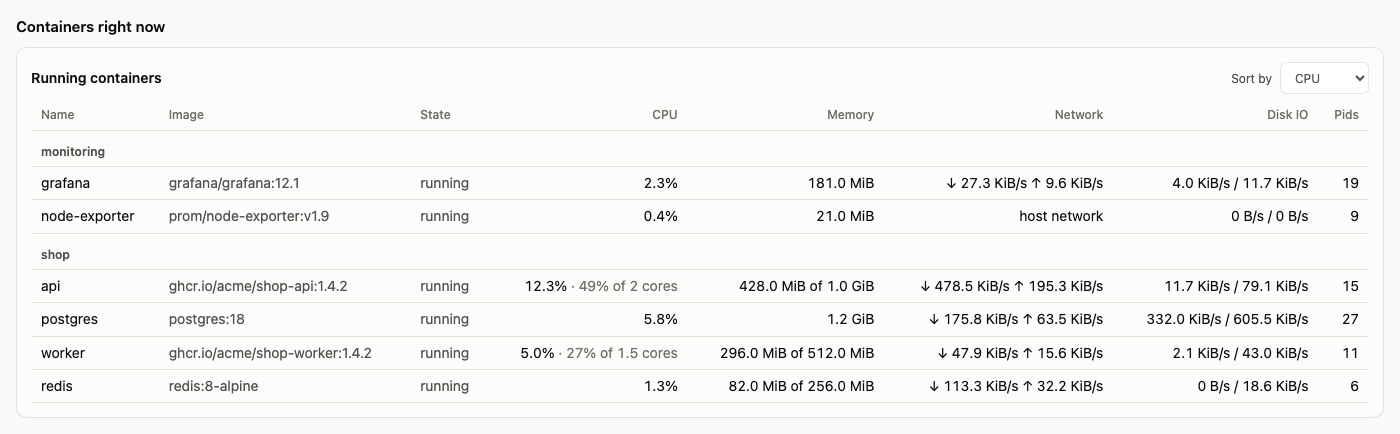
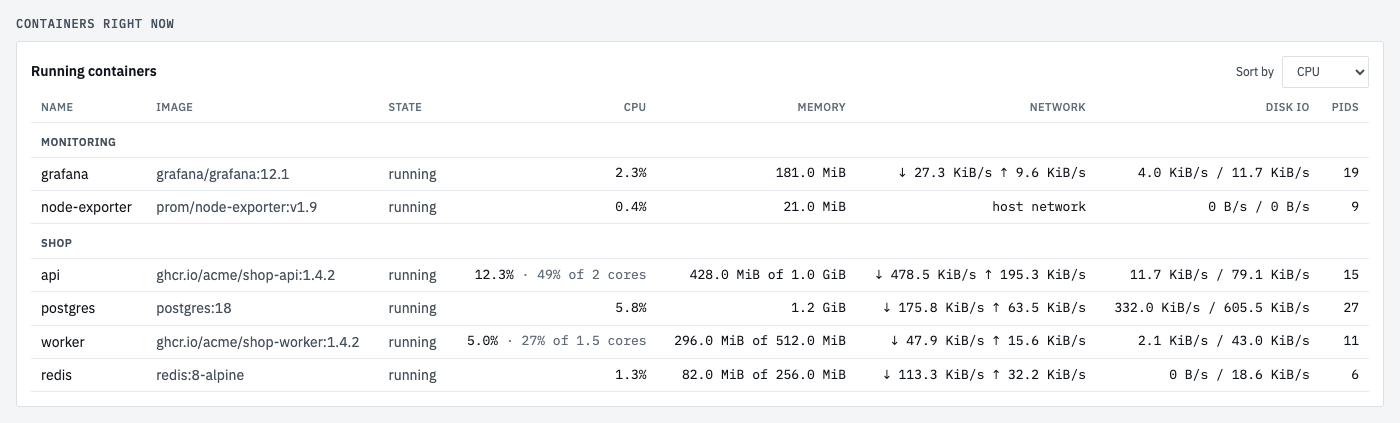
update the screenshots to the restyled dashboard

diff --git a/docs/install.md b/docs/install.md
@@ -795,7 +795,7 @@ sudo -u postgres dropuser symon
 
 **An agent update fails with "not signed with this agent's update key".** The dashboard's agent builds were signed with another key than the agent was built with, or not signed at all, for example after building on another machine. Rebuild with the original key, or run the install command on the host once to switch it to the new key.
 
-**Forgot a password.** On the collector's host, `collector -reset-password <name>` prints a new one. Logged in users change their own on the Account page, which the user name in the header links to.
+**Forgot a password.** On the collector's host, `collector -reset-password <name>` prints a new one. Logged in users change their own under Account and password, in the menu under their user name at the top right.
 
 **The collector does not start after an upgrade, with an error about the alert rules.** On its first start it imports `SYMON_ALERTS_CONFIG_PATH`, and refuses a file with a mistake rather than dropping rules. Fix the line the error names, or unset the setting to start without the file's rules.
 

diff --git a/README.MD b/README.MD
@@ -56,7 +56,7 @@ SyMon is a self-hosted monitoring tool for Linux servers, home labs, Raspberry P
 **Dashboard**
 - Every host at a glance, and a page per host with charts from 15 minutes to 30 days, or any custom range
 - Drag across a chart to zoom in, click a point to see the processes running then, and switch any chart to a table
-- Follows the system light or dark theme
+- Light and dark themes, following the system unless you pick one in the menu under your user name
 
 **Running it**
 - Add a host with one command, with a single-use token
